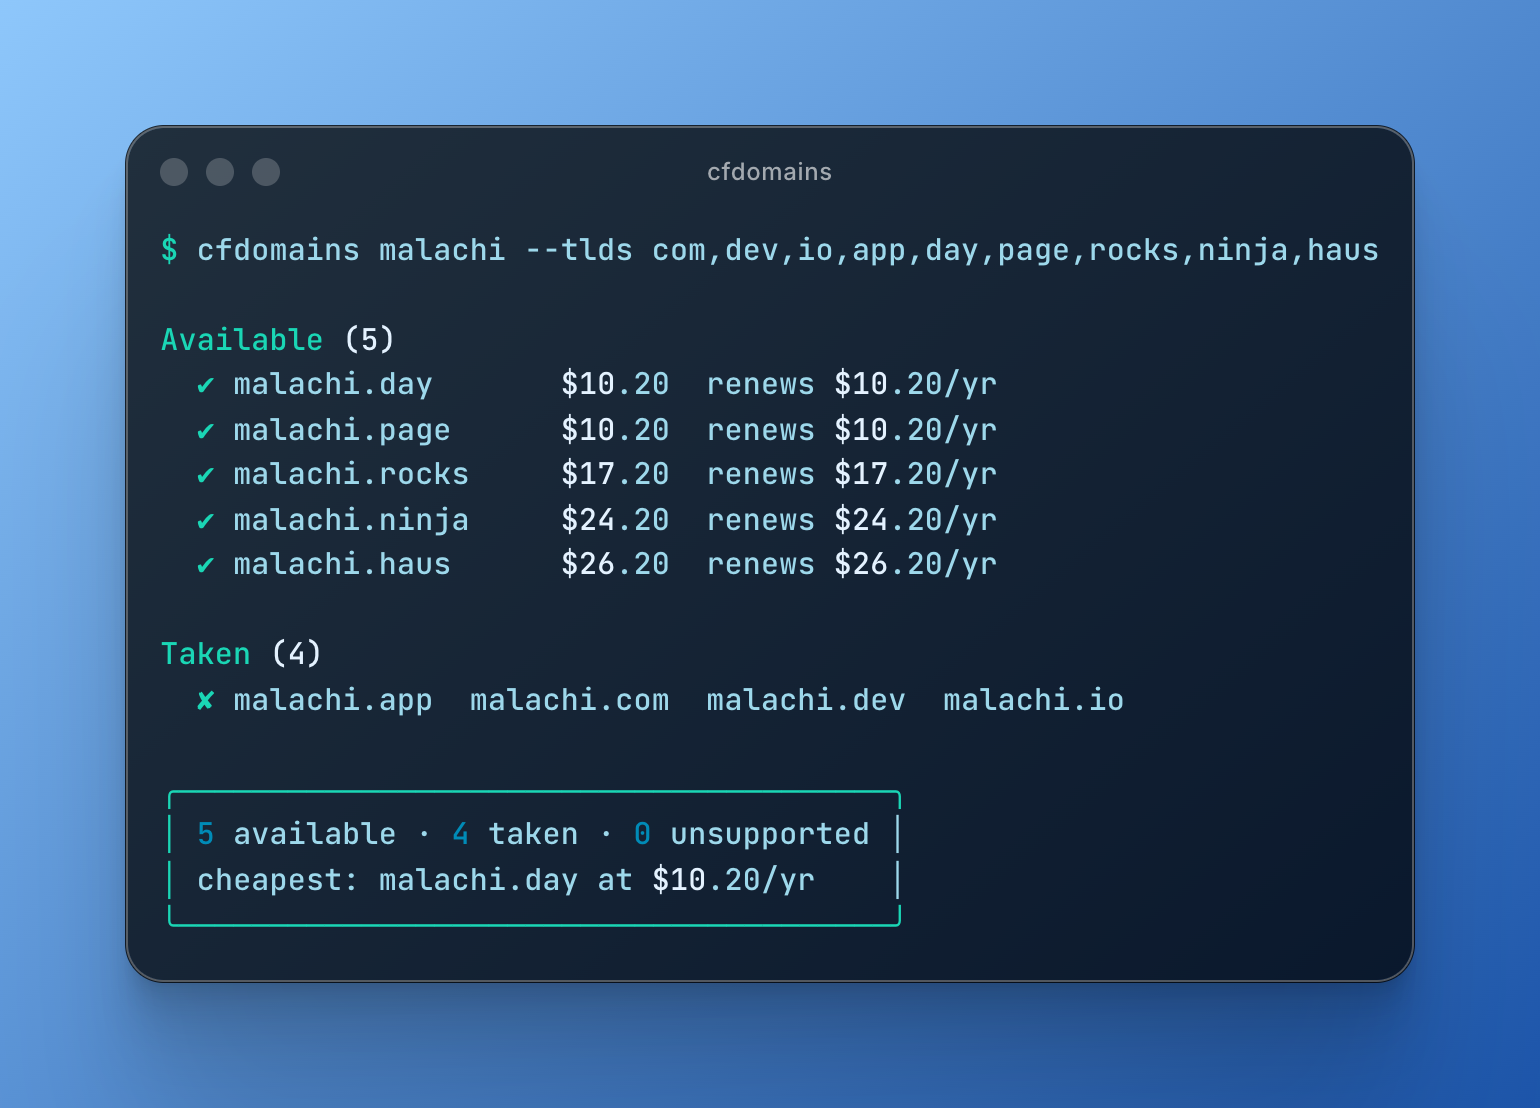
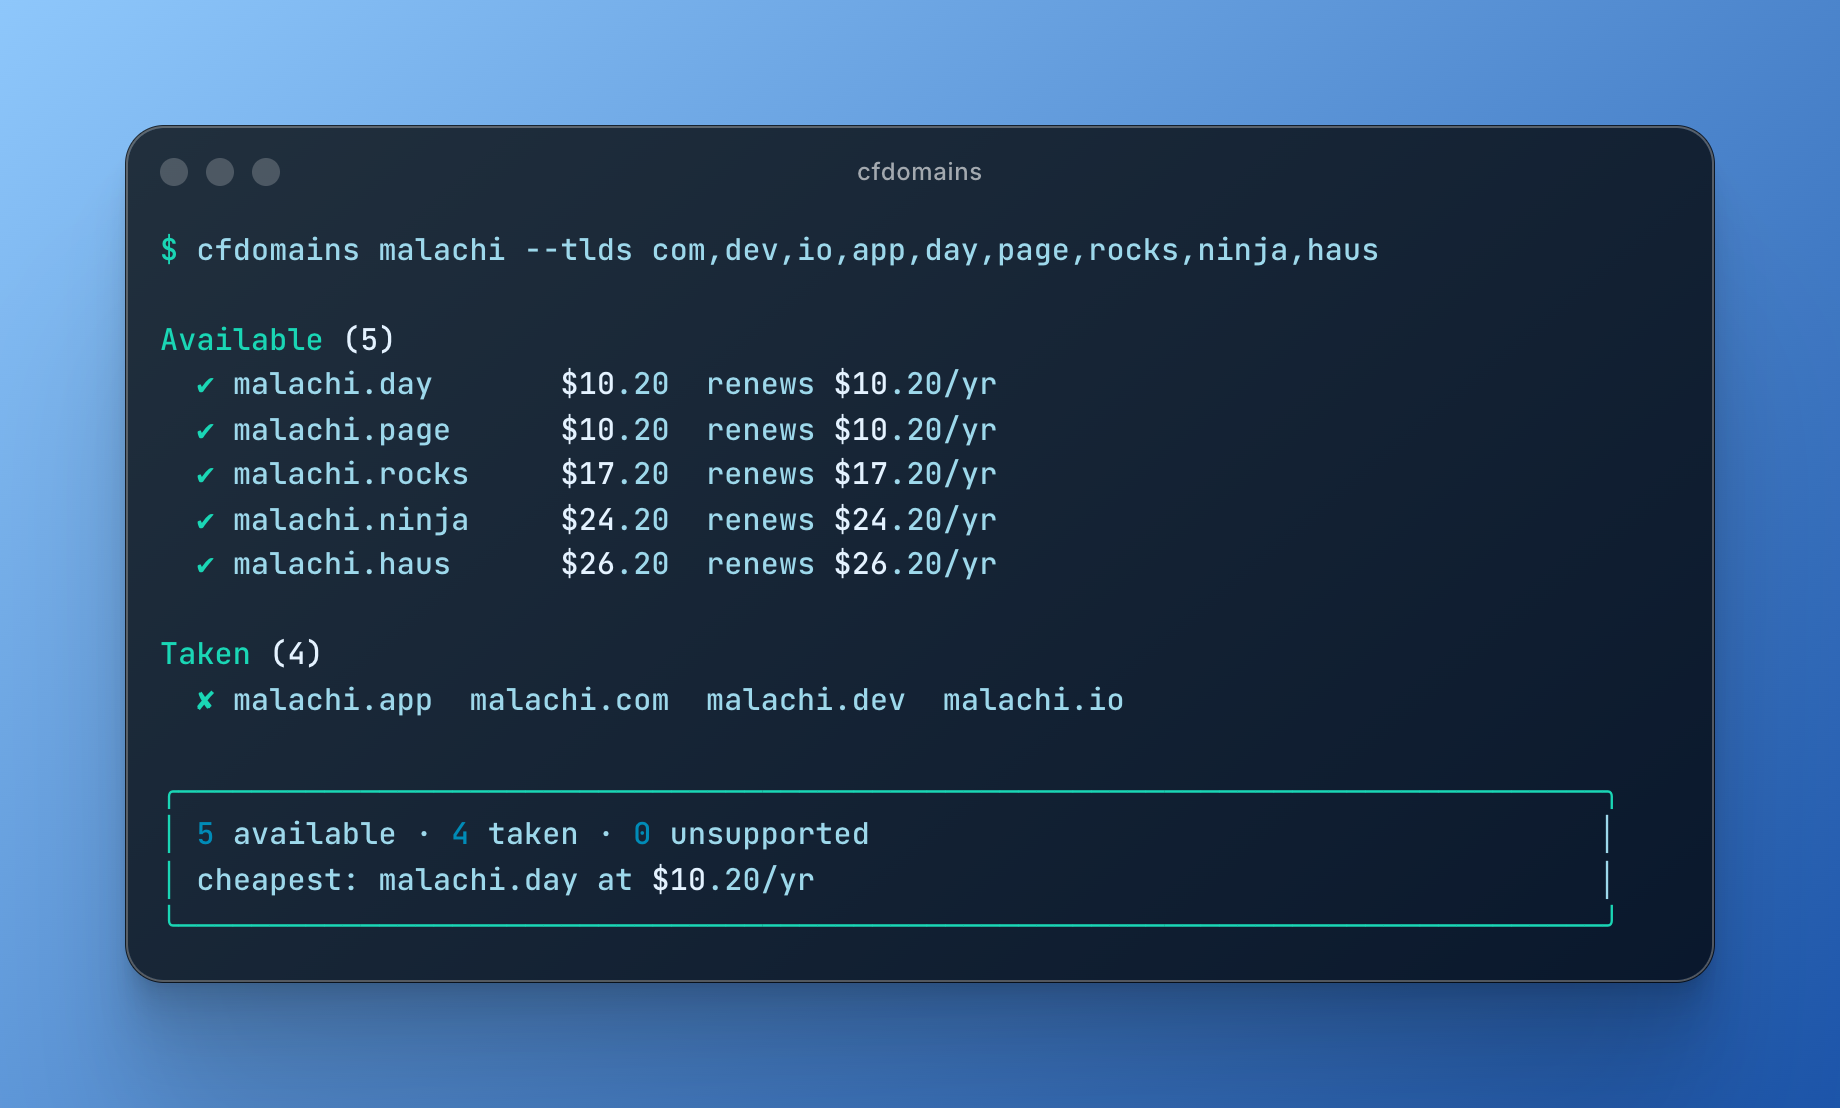
Stretch the summary box to terminal width
The receipt box now fills process.stdout.columns (80 when piped),
threaded into the pure renderer as an option. Screenshots regenerated
at 80 columns via a shared receiptBox helper in the spec.

Changed region(s): [[0.0623, 0.0921, 0.9351, 0.8899], [0.4675, 0.1227, 0.5299, 0.1841], [0.1558, 0.1227, 0.187, 0.1841]]

diff --git a/scripts/screenshots.ts b/scripts/screenshots.ts
@@ -17,6 +17,13 @@ interface Shot {
   readonly code: string
 }
 
+// The summary receipt box stretches to the terminal width (80 columns here).
+const receiptBox = (lines: ReadonlyArray<string>): ReadonlyArray<string> => [
+  `╭${"─".repeat(78)}╮`,
+  ...lines.map((line) => `│ ${line.padEnd(76)} │`),
+  `╰${"─".repeat(78)}╯`
+]
+
 const shots: ReadonlyArray<Shot> = [
   {
     file: "docs/fullsweep.png",
@@ -43,11 +50,11 @@ const shots: ReadonlyArray<Shot> = [
       "Not supported via API (6) — may still be purchasable in the dashboard",
       "  · malachi.cc  malachi.giving  malachi.lol  malachi.mom  malachi.new  malachi.sh",
       "",
-      "╭──────────────────────────────────────────╮",
-      "│ 343 available · 74 taken · 6 unsupported │",
-      "│ cheapest: malachi.bid at $4.18/yr        │",
-      "│ prices $4.18 – $2,000.20  ▂▂▃█▅▃▂▁▂▂▁▂   │",
-      "╰──────────────────────────────────────────╯"
+      ...receiptBox([
+        "343 available · 74 taken · 6 unsupported",
+        "cheapest: malachi.bid at $4.18/yr",
+        "prices $4.18 – $2,000.20  ▂▂▃█▅▃▂▁▂▂▁▂"
+      ])
     ].join("\n")
   },
   {
@@ -67,10 +74,10 @@ const shots: ReadonlyArray<Shot> = [
       "Taken (4)",
       "  ✘ malachi.app  malachi.com  malachi.dev  malachi.io",
       "",
-      "╭───────────────────────────────────────╮",
-      "│ 5 available · 4 taken · 0 unsupported │",
-      "│ cheapest: malachi.day at $10.20/yr    │",
-      "╰───────────────────────────────────────╯"
+      ...receiptBox([
+        "5 available · 4 taken · 0 unsupported",
+        "cheapest: malachi.day at $10.20/yr"
+      ])
     ].join("\n")
   },
   {

diff --git a/src/Report.ts b/src/Report.ts
@@ -55,9 +55,10 @@ const sparkline = (costs: ReadonlyArray<number>, buckets = 12): string => {
 /** Rounded box; padding is computed from the unstyled text so ANSI codes don't skew it. */
 const box = (
   content: ReadonlyArray<{ readonly plain: string; readonly styled: string }>,
-  frame: (line: string) => string
+  frame: (line: string) => string,
+  minInner: number
 ): ReadonlyArray<string> => {
-  const inner = Math.max(...content.map((l) => l.plain.length))
+  const inner = Math.max(minInner, ...content.map((l) => l.plain.length))
   return [
     frame(`╭${"─".repeat(inner + 2)}╮`),
     ...content.map((l) =>
@@ -88,6 +89,8 @@ export const render = (
     readonly availableOnly: boolean
     readonly accountId: string
     readonly links: boolean
+    /** Terminal width; the summary box stretches to fill it. */
+    readonly columns: number
   },
   style: Style
 ): string => {
@@ -202,7 +205,7 @@ export const render = (
     })
   }
   lines.push("")
-  lines.push(...box(summary, dim))
+  lines.push(...box(summary, dim, options.columns - 4))
   lines.push(dim(`buy: ${purchaseUrl(options.accountId, options.name)}`))
 
   return lines.join("\n")

diff --git a/src/Cli.ts b/src/Cli.ts
@@ -210,7 +210,8 @@ const check = Effect.fn(function*(input: {
       name: query,
       availableOnly: input.available,
       accountId: credentials.accountId,
-      links: input.links
+      links: input.links,
+      columns: process.stdout.columns ?? 80
     }, style))
   }
   if (failures.length > 0) {
